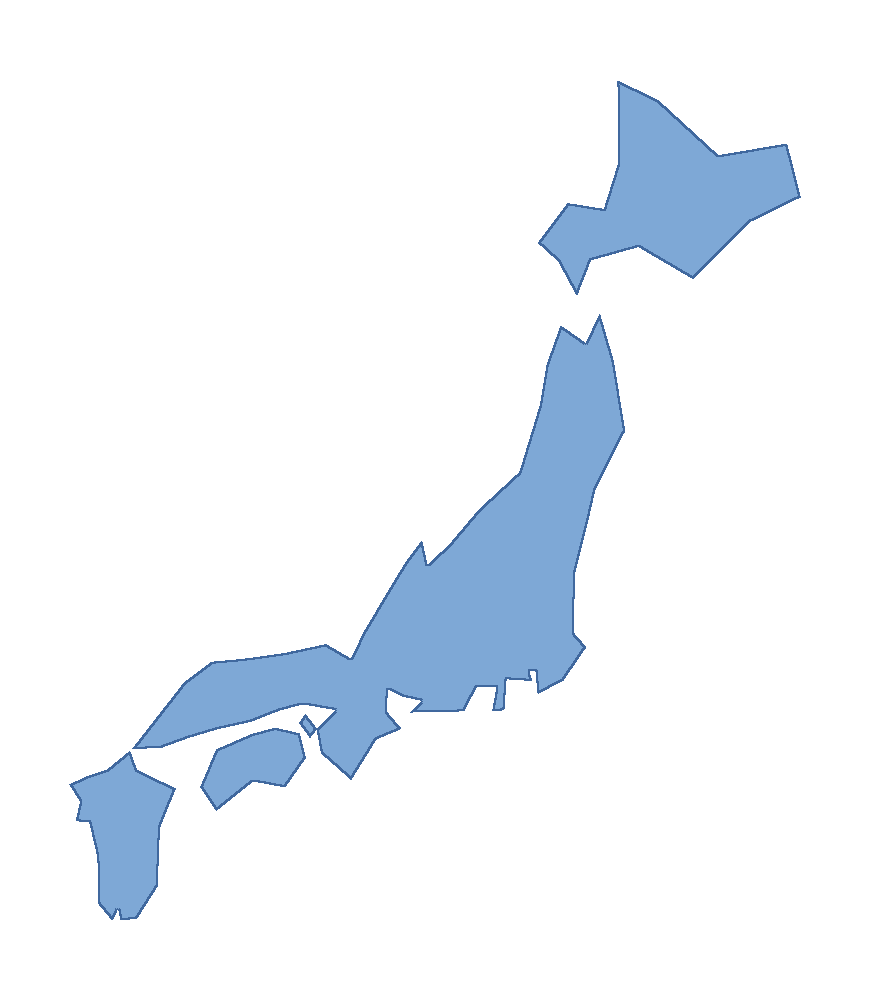
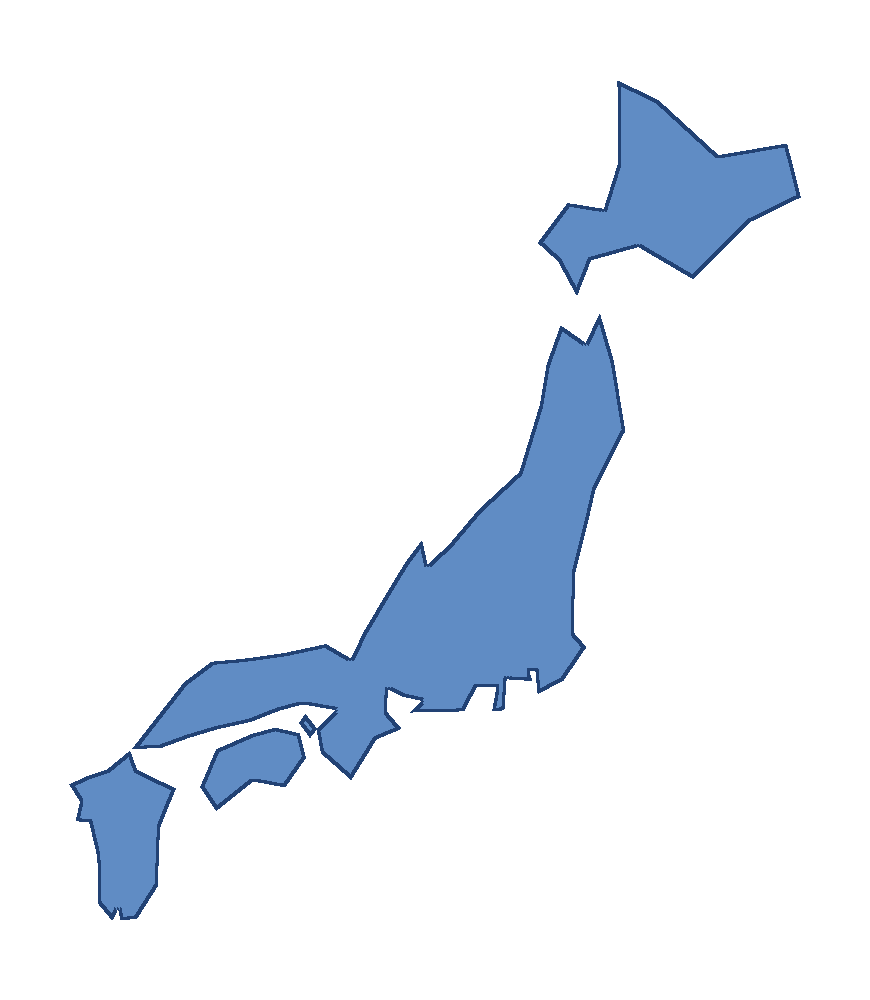
B32: スクリーンショット指摘の修正(マップ実線化+コントラスト+プレート縮小)
- ツアーマップ: 点の散らばりだった引き出し線/ルートを回転パネルの
  細い実線に置換(参考画像と同じ見た目)。日本地図PNGを濃色で再生成し
  海とのコントラストを確保
- レース左の艇番プレートを実中継サイズに縮小(幅2/3・フォント13・白縁)
- タイトル下部メニューを紺半透明+白縁で視認性向上
- マイレーサーの長い数値セル(モーター/シーズン等)のはみ出しを解消

Claude-Session: https://claude.ai/code/session_01DaGuL6kDHuUCLDA7RuqWQs

Changed region(s): [[0.0621, 0.062, 0.931, 0.93]]

diff --git a/UnityBoatRace/Assets/Scripts/UI/GameFlow.cs b/UnityBoatRace/Assets/Scripts/UI/GameFlow.cs
@@ -15,7 +15,7 @@ namespace BoatRace.UI
     public class GameFlow : MonoBehaviour
     {
         /// <summary>ビルド識別子。画面右上に表示され、更新が届いたか一目で分かる。</summary>
-        public const string Build = "B31-マイレーサー再設計";
+        public const string Build = "B32-マップ実線+微調整";
 
         RaceManager race;
         ReplayManager replay;
@@ -333,21 +333,24 @@ namespace BoatRace.UI
             {
                 broadcastStrip = new GameObject("BroadcastStrip");
                 UiKit.Place(broadcastStrip, canvas.transform,
-                    new Vector2(0.005f, 0.28f), new Vector2(0.15f, 0.80f), Vector2.zero, Vector2.zero);
+                    new Vector2(0.006f, 0.36f), new Vector2(0.105f, 0.76f), Vector2.zero, Vector2.zero);
                 for (int i = 0; i < 6; i++)
                 {
                     Color bc = UiKit.BoatColors[i];
                     bool lightBc = bc.r * 0.6f + bc.g * 0.3f + bc.b * 0.1f > 0.6f;
                     float top = 1f - i * (1f / 6f);
-                    var plate = UiKit.MakePanel(broadcastStrip.transform, bc, 8,
-                        new Vector2(0f, top - 0.145f), new Vector2(1f, top - 0.01f),
+                    var plate = UiKit.MakePanel(broadcastStrip.transform, bc, 6,
+                        new Vector2(0f, top - 0.155f), new Vector2(1f, top - 0.012f),
                         Vector2.zero, Vector2.zero);
                     plate.GetComponent<Image>().raycastTarget = false;
-                    plate.AddComponent<SkewFx>().skewX = 6f;
+                    plate.AddComponent<SkewFx>().skewX = 5f;
+                    var pol = plate.AddComponent<Outline>();
+                    pol.effectColor = new Color(1f, 1f, 1f, 0.9f);
+                    pol.effectDistance = new Vector2(1.5f, -1.5f);
                     UiKit.MakeText(plate.transform,
-                        $"{i + 1} {race.statsList[i].player.playerName}", 17,
+                        $"{i + 1} {race.statsList[i].player.playerName}", 13,
                         lightBc ? UiKit.Navy : Color.white, TextAnchor.MiddleLeft,
-                        Vector2.zero, Vector2.one, new Vector2(10f, 0f), new Vector2(-4f, 0f),
+                        Vector2.zero, Vector2.one, new Vector2(8f, 0f), new Vector2(-2f, 0f),
                         bold: true, shadow: !lightBc);
                 }
             }
@@ -1112,10 +1115,13 @@ namespace BoatRace.UI
             for (int i = 0; i < 4; i++)
             {
                 int mi = i;
-                var mb = UiKit.MakePanel(s.transform, new Color(1f, 1f, 1f, 0.10f), 10,
+                var mb = UiKit.MakePanel(s.transform, new Color(0.06f, 0.14f, 0.32f, 0.62f), 10,
                     new Vector2(0.10f + i * 0.21f, 0.060f), new Vector2(0.27f + i * 0.21f, 0.118f),
                     Vector2.zero, Vector2.zero);
                 mb.AddComponent<SkewFx>().skewX = 10f;
+                var mo = mb.AddComponent<Outline>();
+                mo.effectColor = new Color(1f, 1f, 1f, 0.35f);
+                mo.effectDistance = new Vector2(1.5f, -1.5f);
                 mb.AddComponent<Button>().onClick.AddListener(() => menuActs[mi]());
                 UiKit.MakeText(mb.transform, menuLabels[i], 20, Color.white, TextAnchor.MiddleCenter,
                     Vector2.zero, Vector2.one, Vector2.zero, Vector2.zero, bold: true, shadow: true);
@@ -1521,24 +1527,24 @@ namespace BoatRace.UI
 
             // ステータスは「ラベル+数値」のグリッドで一目で読めるように(テキスト塊を廃止)
             var statGray = new Color(0.48f, 0.54f, 0.63f);
-            void StatCell(string label, string val, int colI, int rowI, Color? valCol = null)
+            void StatCell(string label, string val, int colI, int rowI, Color? valCol = null, int size = 18)
             {
                 float cx0 = 0.06f + colI * 0.32f, cx1 = cx0 + 0.31f;
                 float cy1 = 0.76f - rowI * 0.118f, cy0 = cy1 - 0.108f;
                 UiKit.MakeText(card.transform, label, 12, statGray, TextAnchor.LowerLeft,
                     new Vector2(cx0, cy0 + 0.052f), new Vector2(cx1, cy1), Vector2.zero, Vector2.zero, bold: true);
-                UiKit.MakeText(card.transform, val, 18, valCol ?? UiKit.TextDark, TextAnchor.UpperLeft,
+                UiKit.MakeText(card.transform, val, size, valCol ?? UiKit.TextDark, TextAnchor.UpperLeft,
                     new Vector2(cx0, cy0), new Vector2(cx1, cy0 + 0.055f), Vector2.zero, Vector2.zero, bold: true);
             }
-            StatCell("レベル", $"Lv.{career.level}  (XP {career.xp}/{career.XpNeed})", 0, 0);
+            StatCell("レベル", $"Lv.{career.level} (XP {career.xp}/{career.XpNeed})", 0, 0, null, 15);
             StatCell("体力", $"{career.MaxStamina}", 1, 0);
-            StatCell("出走 / 勝利", $"{career.races}回 / {career.wins}勝 (3着内{career.top3})", 0, 1);
+            StatCell("出走 / 勝利", $"{career.races}回 / {career.wins}勝 (3着内{career.top3})", 0, 1, null, 15);
             StatCell("ファン", $"{career.fans:N0} 人", 1, 1);
             StatCell("資金", $"{career.money:N0} 万円", 0, 2,
                 career.money < 20 ? UiKit.Red : (Color?)null);
-            StatCell("シーズン", $"第{career.seasonNo}S {career.seasonRaces}/12戦 {career.seasonWins}勝", 1, 2);
-            StatCell("スポンサー", $"{career.sponsorIds.Count}社 (+{career.SponsorIncome}万/R)", 0, 3);
-            StatCell("モーター", PlayerPrefs.GetString("br_last_motor", "未抽選"), 1, 3);
+            StatCell("シーズン", $"第{career.seasonNo}S {career.seasonRaces}/12戦 {career.seasonWins}勝", 1, 2, null, 14);
+            StatCell("スポンサー", $"{career.sponsorIds.Count}社 (+{career.SponsorIncome}万/R)", 0, 3, null, 15);
+            StatCell("モーター", PlayerPrefs.GetString("br_last_motor", "未抽選"), 1, 3, null, 14);
 
             // 疲労バー(60以上で赤+要休養)
             bool tired = career.fatigue >= 60;
@@ -2045,20 +2051,28 @@ namespace BoatRace.UI
                 return new Color(0.60f, 0.66f, 0.74f);
             }
 
-            // 進行ルート(章ノード間の点線。クリア済み区間は金)
-            for (int i = 0; i < chs.Length - 1; i++)
+            // 細い実線を引くヘルパー(点の散らばりではなく参考画像と同じ引き出し線)
+            void MapLine(Vector2 a, Vector2 b, Color lc2, float thick)
             {
-                Vector2 a = NodePos(i), b = NodePos(i + 1);
-                for (int d = 1; d <= 6; d++)
-                {
-                    Vector2 q = Vector2.Lerp(a, b, d / 7f);
-                    var dot = UiKit.MakePanel(map.transform,
-                        i + 1 < career.chapter ? new Color(1f, 0.84f, 0.20f, 0.9f) : new Color(1f, 1f, 1f, 0.45f),
-                        8, new Vector2(q.x - 0.0028f, q.y - 0.005f), new Vector2(q.x + 0.0028f, q.y + 0.005f),
-                        Vector2.zero, Vector2.zero);
-                    dot.GetComponent<Image>().raycastTarget = false;
-                }
+                const float pw = 0.94f * 1600f, ph = 0.71f * 900f; // マップパネルのpxサイズ
+                Vector2 d = new Vector2((b.x - a.x) * pw, (b.y - a.y) * ph);
+                var go = new GameObject("Line");
+                var rt = UiKit.Place(go, map.transform,
+                    new Vector2((a.x + b.x) * 0.5f, (a.y + b.y) * 0.5f),
+                    new Vector2((a.x + b.x) * 0.5f, (a.y + b.y) * 0.5f),
+                    Vector2.zero, Vector2.zero);
+                rt.sizeDelta = new Vector2(d.magnitude, thick);
+                rt.localEulerAngles = new Vector3(0f, 0f, Mathf.Atan2(d.y, d.x) * Mathf.Rad2Deg);
+                var img = go.AddComponent<Image>();
+                img.color = lc2;
+                img.raycastTarget = false;
             }
+
+            // 進行ルート(章ノード間。クリア済み区間は金)
+            for (int i = 0; i < chs.Length - 1; i++)
+                MapLine(NodePos(i), NodePos(i + 1),
+                    i + 1 < career.chapter ? new Color(1f, 0.84f, 0.20f, 0.85f) : new Color(1f, 1f, 1f, 0.40f),
+                    3f);
 
             // 左右のラベル列の割り当て(地図中心より西=左列/東=右列)、各列は北から順
             var leftIdx = new List<int>();
@@ -2078,17 +2092,10 @@ namespace BoatRace.UI
                 float cx0 = left ? 0.008f : 0.735f, cx1 = left ? 0.265f : 0.992f;
                 Vector2 p = NodePos(i);
 
-                // 引き出し線(チップ→会場の点。状態色の点線)
+                // 引き出し線(チップ→会場の点。参考画像と同じ細い実線)
                 Vector2 from = new Vector2(left ? cx1 + 0.003f : cx0 - 0.003f, cy);
                 Color lc = StateColor(i);
-                for (int d = 0; d <= 9; d++)
-                {
-                    Vector2 q = Vector2.Lerp(from, p, d / 9f);
-                    var dot = UiKit.MakePanel(map.transform, new Color(lc.r, lc.g, lc.b, 0.85f), 6,
-                        new Vector2(q.x - 0.0022f, q.y - 0.004f), new Vector2(q.x + 0.0022f, q.y + 0.004f),
-                        Vector2.zero, Vector2.zero);
-                    dot.GetComponent<Image>().raycastTarget = false;
-                }
+                MapLine(from, p, new Color(lc.r, lc.g, lc.b, 0.75f), 2f);
 
                 // ラベルチップ(紺。現在章=赤+黄フチで強調)
                 var chip = UiKit.MakePanel(map.transform,
